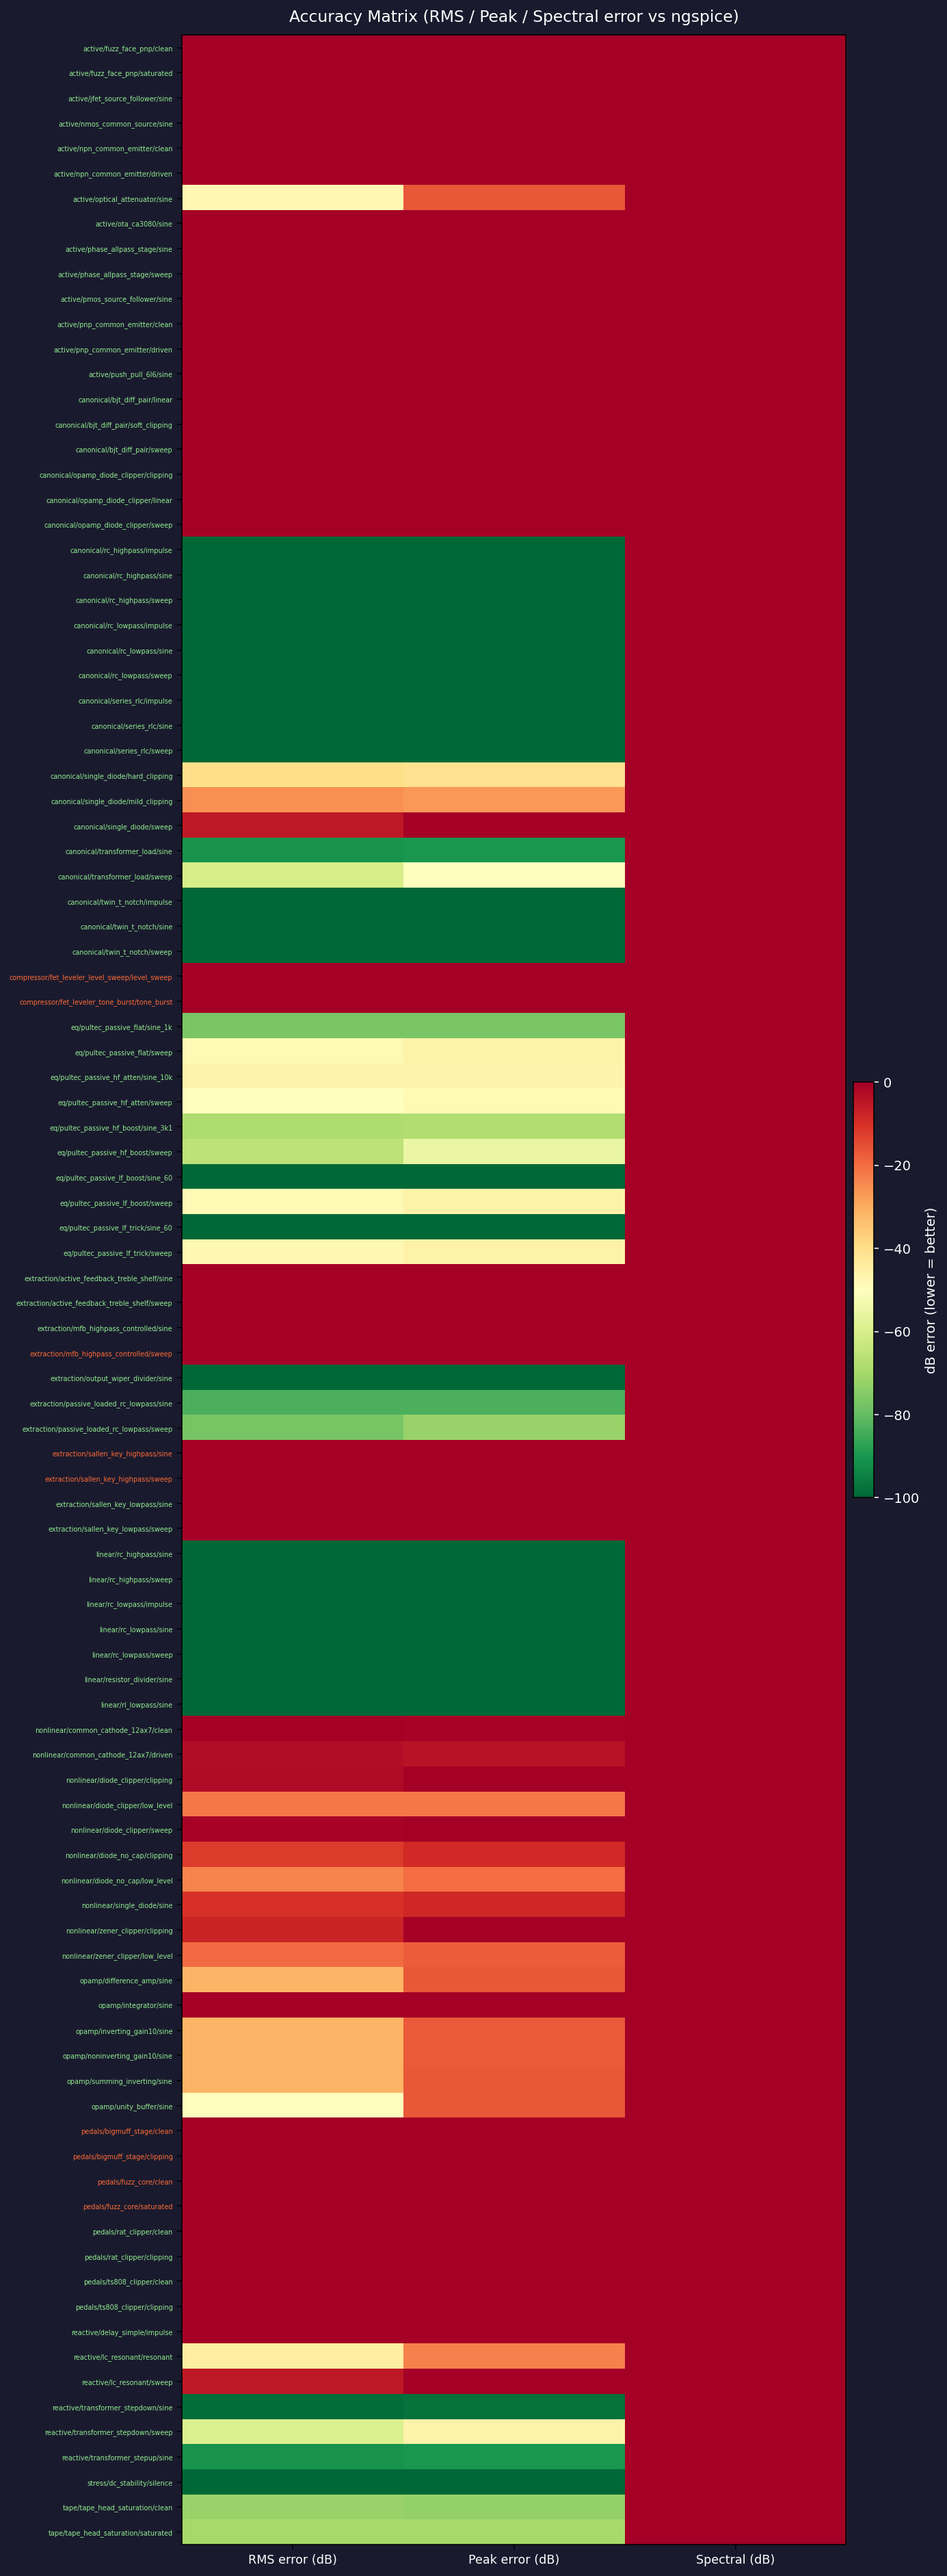
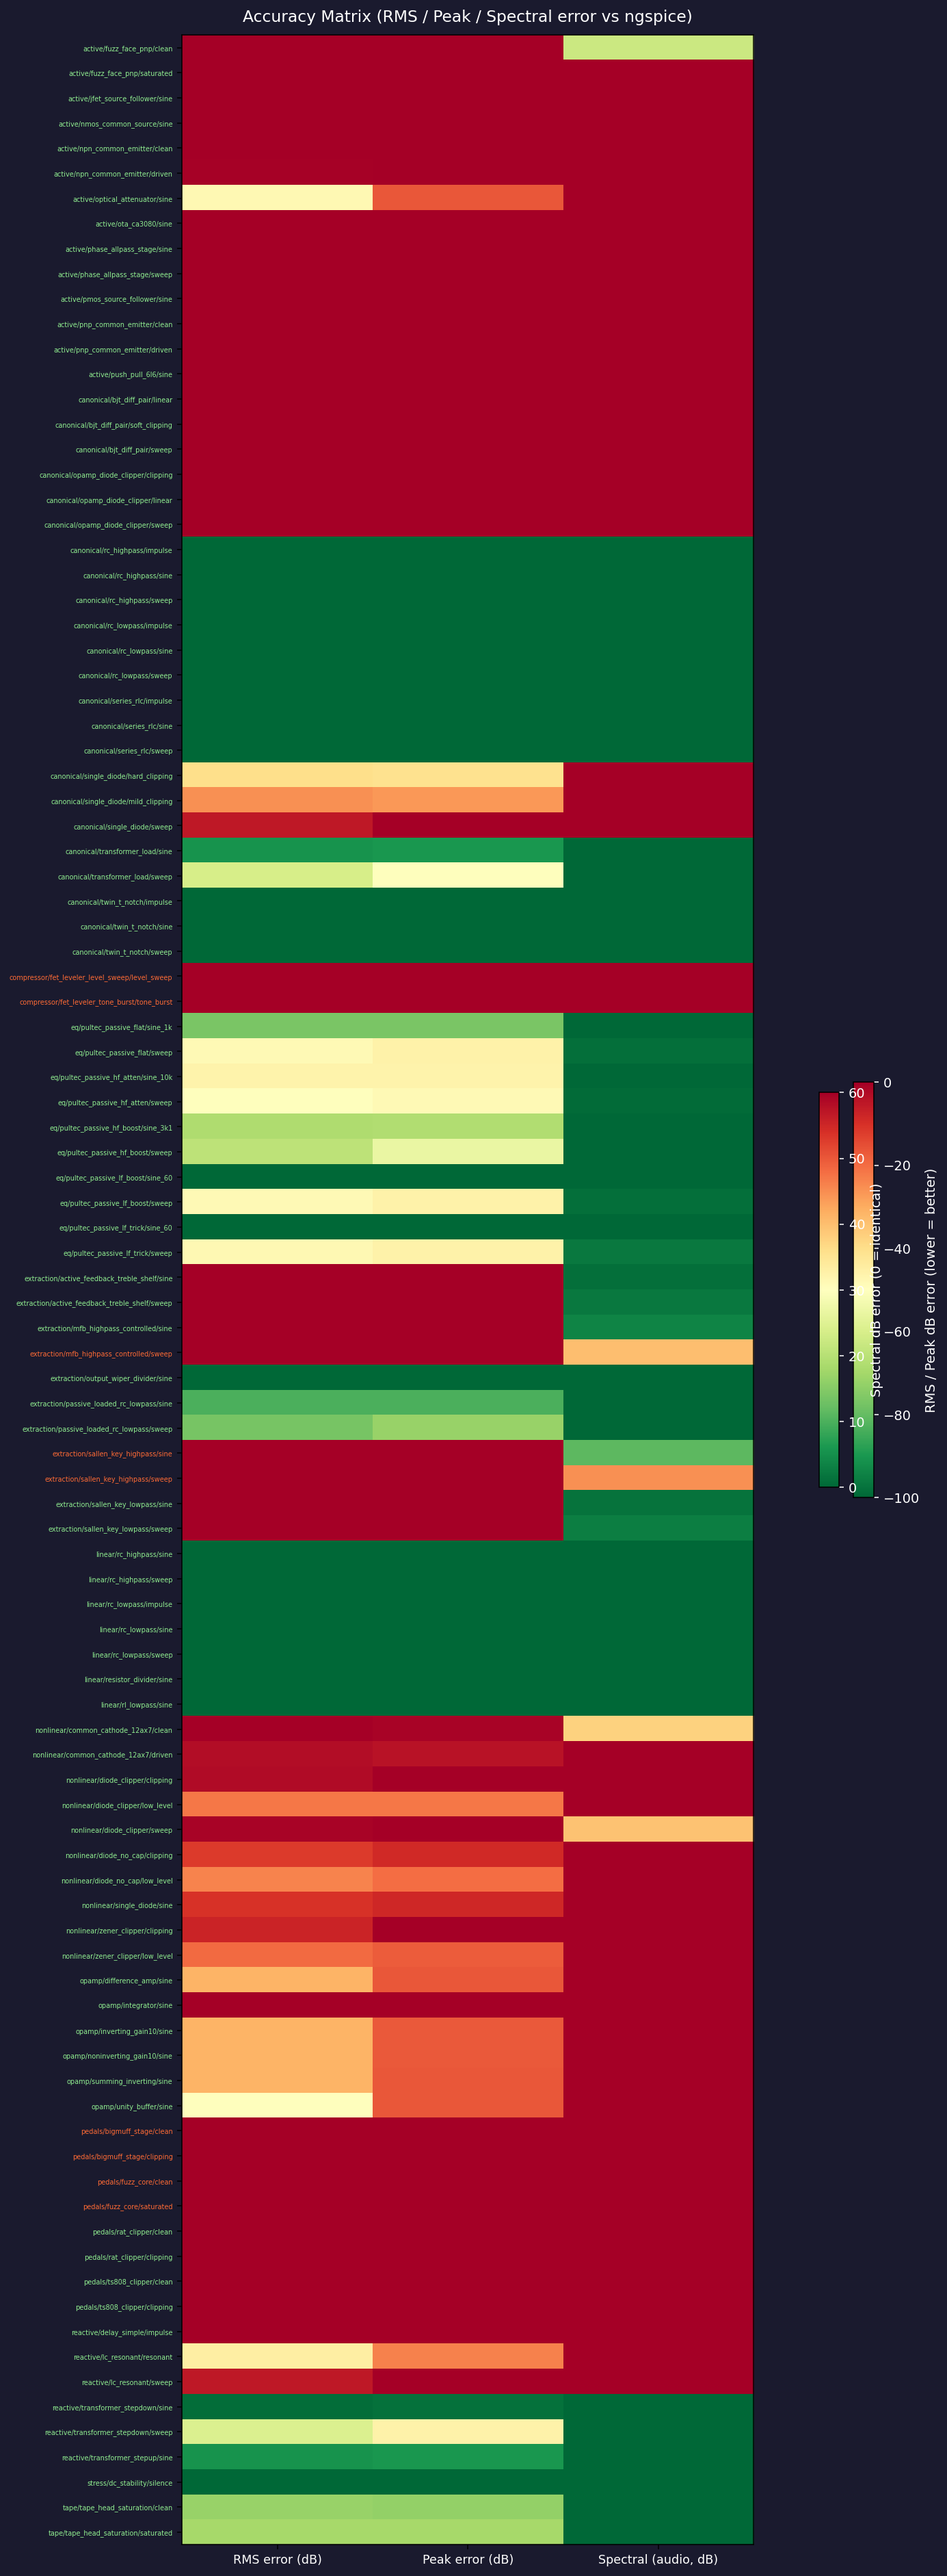
Give the matrix Spectral column its own colour scale
RMS/Peak are dB differences (negative = good) on the [-100, 0] scale; spectral
error is a max-bin magnitude that is always >= 0 (0 = identical spectra), so on
the shared scale every spectral cell clipped to red and the column was
information-free. Render each column through its own normalization into an RGBA
image: RMS/Peak stay [-100, 0]; Spectral gets [0, SPECTRAL_VMAX_DB=60] with the
same green=good/red=bad polarity. Two colorbars, one per scale. The column now
shows real variation (clean filters green, high-error opamps/clippers red).

Matrix-only change; per-circuit PNGs and data unchanged.

https://claude.ai/code/session_01YBqP2a4VdF8cBC3abzbECp

diff --git a/tools/dashboard/generate_dashboard.py b/tools/dashboard/generate_dashboard.py
@@ -101,9 +101,15 @@ import numpy as np
 SCHEMA_VERSION = 1
 SAMPLE_RATE_DEFAULT = 384_000  # 96kHz x4 oversample
 
-# RMS-error colour scale: -inf to 0 dB; capped at these extremes for display.
+# RMS/Peak-error colour scale (dB difference, negative = good): capped at these
+# extremes for display. Green at VMIN (deep negative), red at VMAX (near 0).
 HEATMAP_VMIN_DB = -100.0
 HEATMAP_VMAX_DB = 0.0
+
+# Spectral error is a different quantity: a max-bin error that is always >= 0
+# (0 dB = identical spectra), so it needs its own scale and polarity — green at
+# 0, ramping to red at SPECTRAL_VMAX_DB. Tune this threshold to taste.
+SPECTRAL_VMAX_DB = 60.0
 
 # Waveform plot: trim this many seconds off the front (warmup suppression).
 PLOT_WARMUP_TRIM_S = 0.005  # 5 ms
@@ -309,7 +315,8 @@ def plot_accuracy_matrix(
 
     labels = [r["key"] for r in records]
     metric_cols = ["normalized_rms_error_db", "peak_error_db", "spectral_error_db"]
-    col_labels = ["RMS error (dB)", "Peak error (dB)", "Spectral (dB)"]
+    col_labels = ["RMS error (dB)", "Peak error (dB)", "Spectral (audio, dB)"]
+    spectral_col = metric_cols.index("spectral_error_db")
 
     # Build matrix: NaN = no data (wdf_pending or error)
     mat = np.full((len(labels), len(metric_cols)), np.nan)
@@ -323,9 +330,6 @@ def plot_accuracy_matrix(
                 mat[i, j] = float(v)
         pass_flags.append(r.get("passed", False))
 
-    # Clip display range
-    mat_clipped = np.clip(mat, HEATMAP_VMIN_DB, HEATMAP_VMAX_DB)
-
     n_rows, n_cols = mat.shape
     cell_h = max(0.25, min(0.5, 20.0 / n_rows))
     fig_h = max(6, n_rows * cell_h + 2)
@@ -334,20 +338,32 @@ def plot_accuracy_matrix(
     fig.patch.set_facecolor("#1a1a2e")
     ax.set_facecolor("#1a1a2e")
 
-    # RdYlGn_r over [vmin=-100, vmax=0]: green=good (very negative dB, far below
-    # ngspice error floor), red=bad (near 0 dB). RdYlGn (non-reversed) inverted
-    # this — it painted -100 dB red and 0 dB green.
     cmap = plt.cm.RdYlGn_r
-    norm = mcolors.Normalize(vmin=HEATMAP_VMIN_DB, vmax=HEATMAP_VMAX_DB)
 
-    im = ax.imshow(mat_clipped, aspect="auto", cmap=cmap, norm=norm)
+    # Two independent scales, because the columns measure opposite-polarity
+    # quantities. RdYlGn_r maps low -> green, high -> red in both cases:
+    #   RMS / Peak — dB difference, negative = good. Scale [-100, 0]:
+    #                green at -100 (far below ngspice floor), red near 0.
+    #   Spectral   — max-bin error, always >= 0, 0 = identical spectra.
+    #                Scale [0, SPECTRAL_VMAX_DB]: green at 0, red at the cap.
+    norm_diff = mcolors.Normalize(vmin=HEATMAP_VMIN_DB, vmax=HEATMAP_VMAX_DB)
+    norm_spec = mcolors.Normalize(vmin=0.0, vmax=SPECTRAL_VMAX_DB)
 
-    # Overlay NaN cells as grey
+    # Map each column through its own norm into an RGBA image, then draw once.
+    rgba = np.zeros((n_rows, n_cols, 4))
+    for j in range(n_cols):
+        col = mat[:, j]
+        if j == spectral_col:
+            normed = norm_spec(np.clip(col, 0.0, SPECTRAL_VMAX_DB))
+        else:
+            normed = norm_diff(np.clip(col, HEATMAP_VMIN_DB, HEATMAP_VMAX_DB))
+        rgba[:, j, :] = cmap(normed)
+
+    # NaN cells (no data) -> grey.
     nan_mask = np.isnan(mat)
-    if nan_mask.any():
-        grey_data = np.where(nan_mask, 0.5, np.nan)
-        grey_cmap = mcolors.ListedColormap(["#555555"])
-        ax.imshow(grey_data, aspect="auto", cmap=grey_cmap, norm=mcolors.Normalize(0, 1))
+    rgba[nan_mask] = mcolors.to_rgba("#555555")
+
+    ax.imshow(rgba, aspect="auto")
 
     # Axes labels
     ax.set_xticks(range(n_cols))
@@ -361,10 +377,18 @@ def plot_accuracy_matrix(
 
     ax.set_title("Accuracy Matrix (RMS / Peak / Spectral error vs ngspice)", color="white", pad=10)
 
-    cbar = fig.colorbar(im, ax=ax, orientation="vertical", fraction=0.03, pad=0.01)
-    cbar.set_label("dB error (lower = better)", color="white")
-    cbar.ax.yaxis.set_tick_params(color="white")
-    plt.setp(cbar.ax.yaxis.get_ticklabels(), color="white")
+    # Two colorbars, one per scale.
+    sm_diff = plt.cm.ScalarMappable(norm=norm_diff, cmap=cmap)
+    cbar1 = fig.colorbar(sm_diff, ax=ax, orientation="vertical", fraction=0.03, pad=0.02)
+    cbar1.set_label("RMS / Peak dB error (lower = better)", color="white")
+    cbar1.ax.yaxis.set_tick_params(color="white")
+    plt.setp(cbar1.ax.yaxis.get_ticklabels(), color="white")
+
+    sm_spec = plt.cm.ScalarMappable(norm=norm_spec, cmap=cmap)
+    cbar2 = fig.colorbar(sm_spec, ax=ax, orientation="vertical", fraction=0.03, pad=0.10)
+    cbar2.set_label("Spectral dB error (0 = identical)", color="white")
+    cbar2.ax.yaxis.set_tick_params(color="white")
+    plt.setp(cbar2.ax.yaxis.get_ticklabels(), color="white")
 
     plt.tight_layout()
     # 140 dpi: crisp at the large widths the full-width accuracy dashboard renders.
